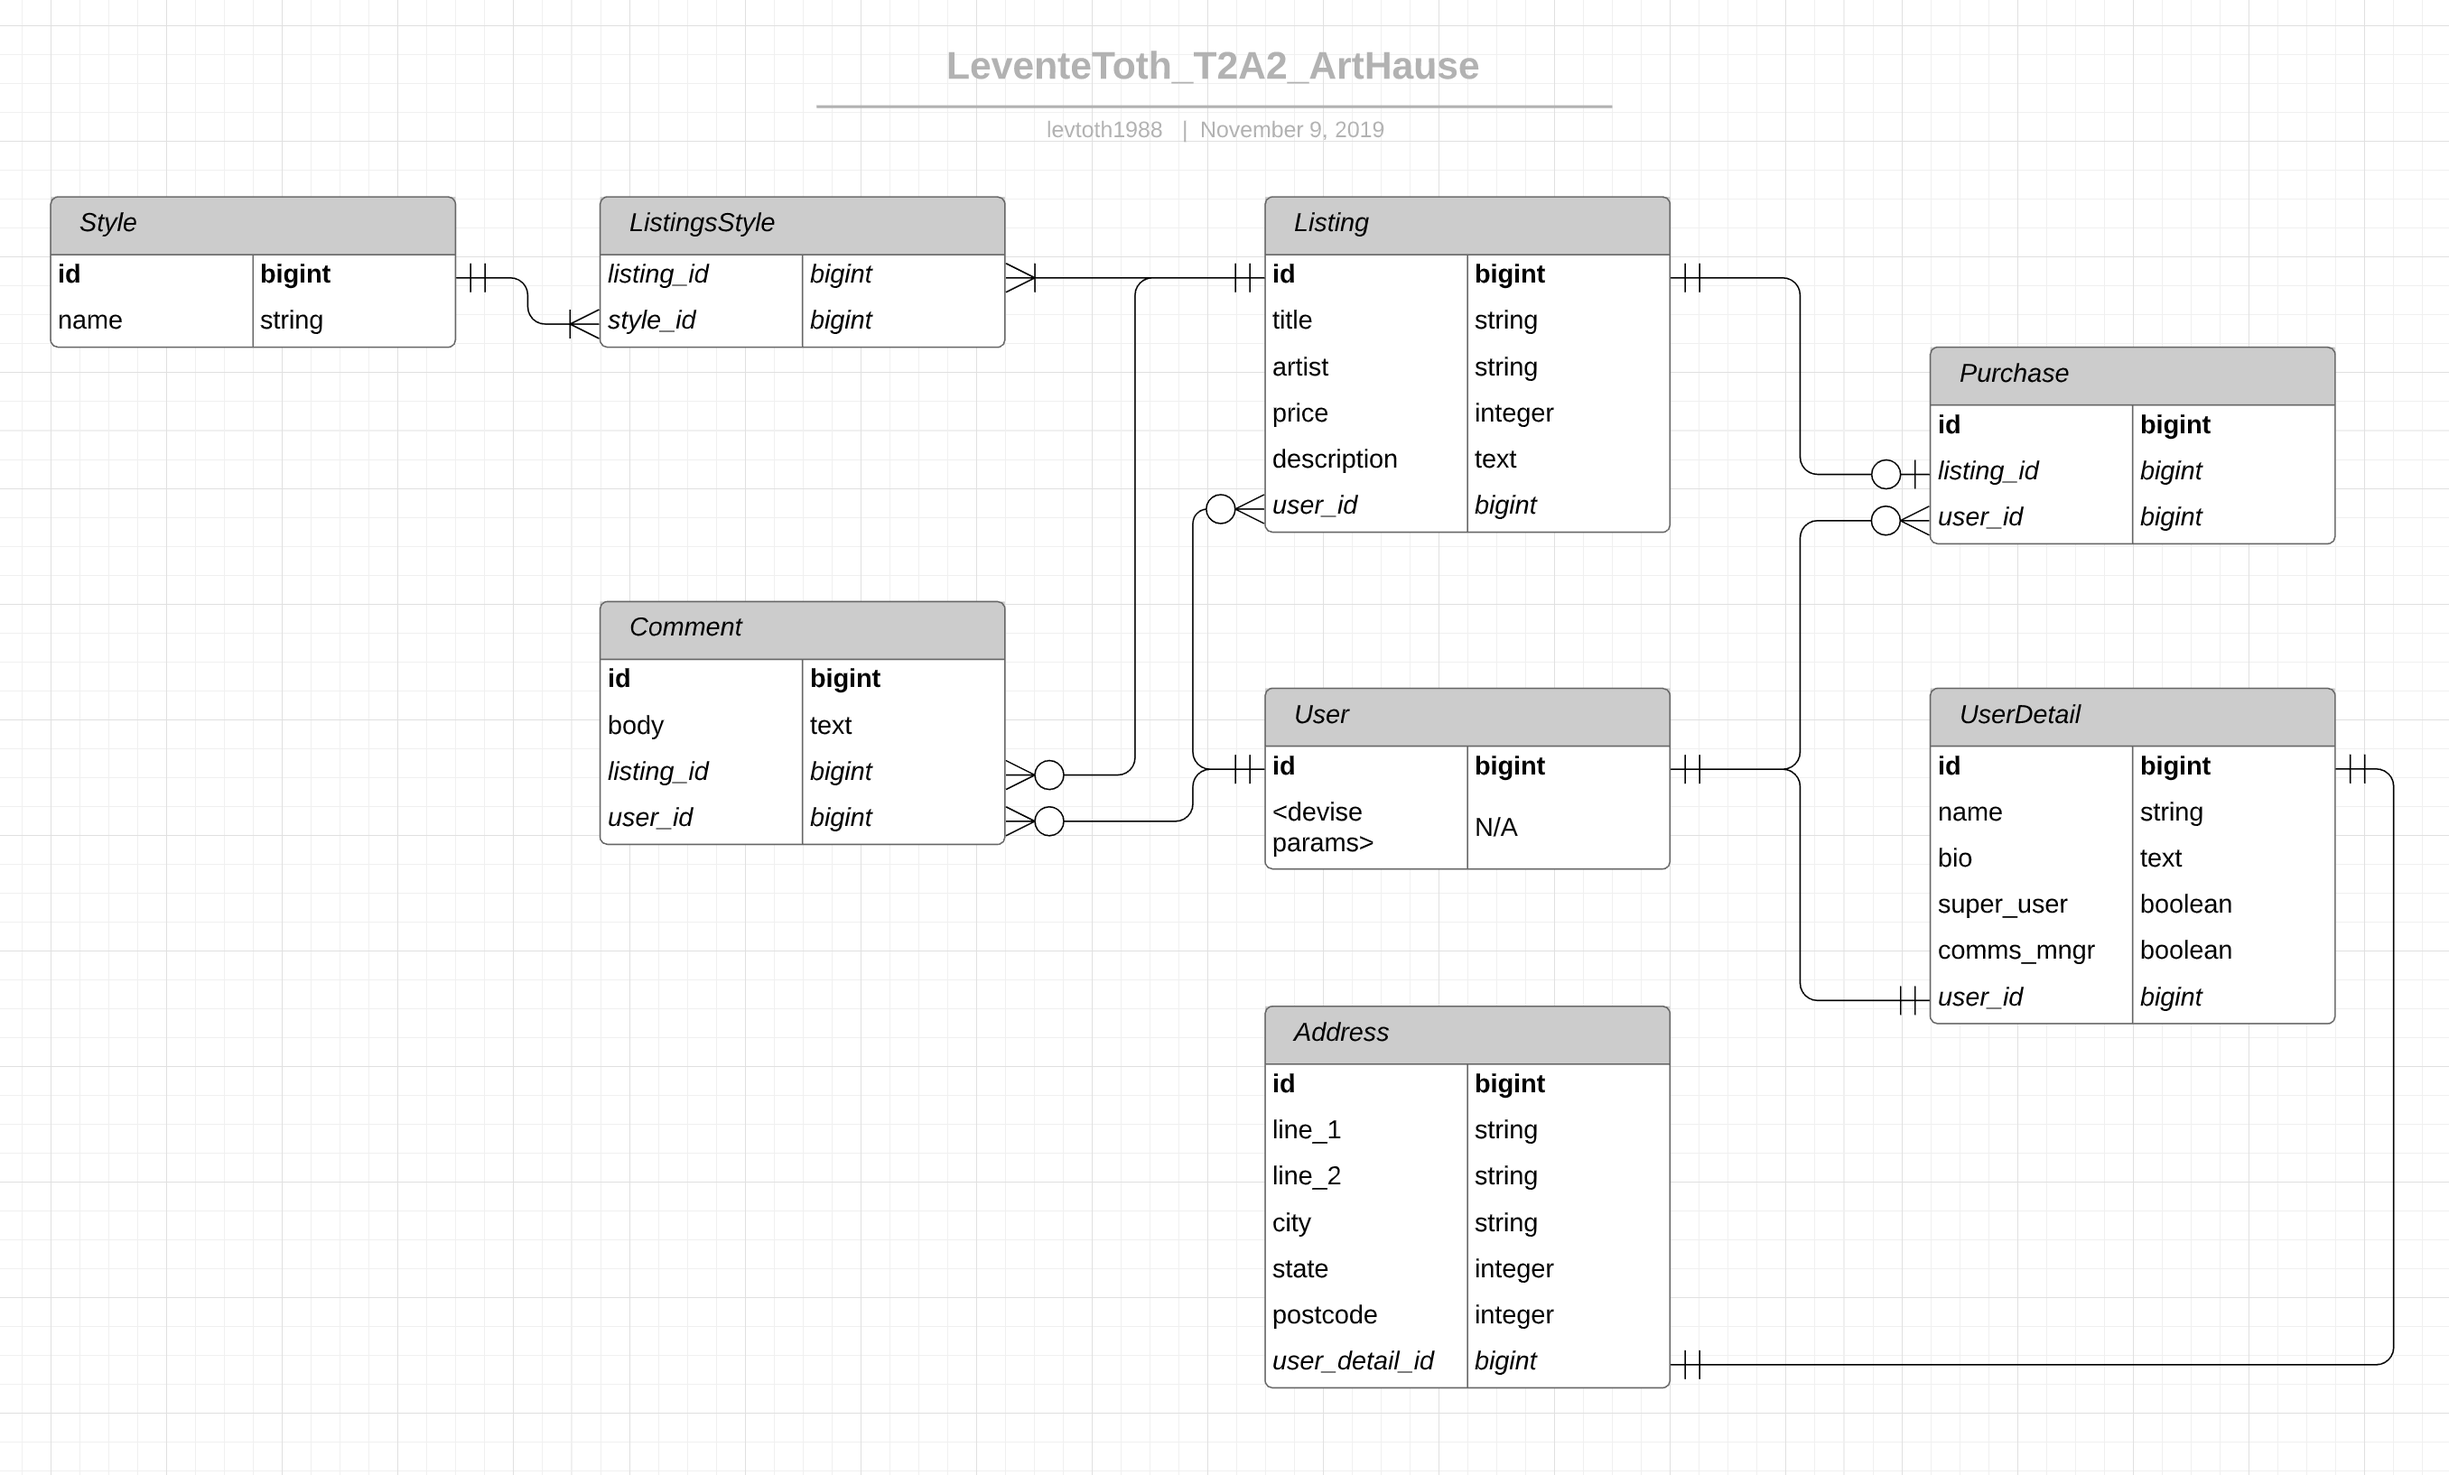
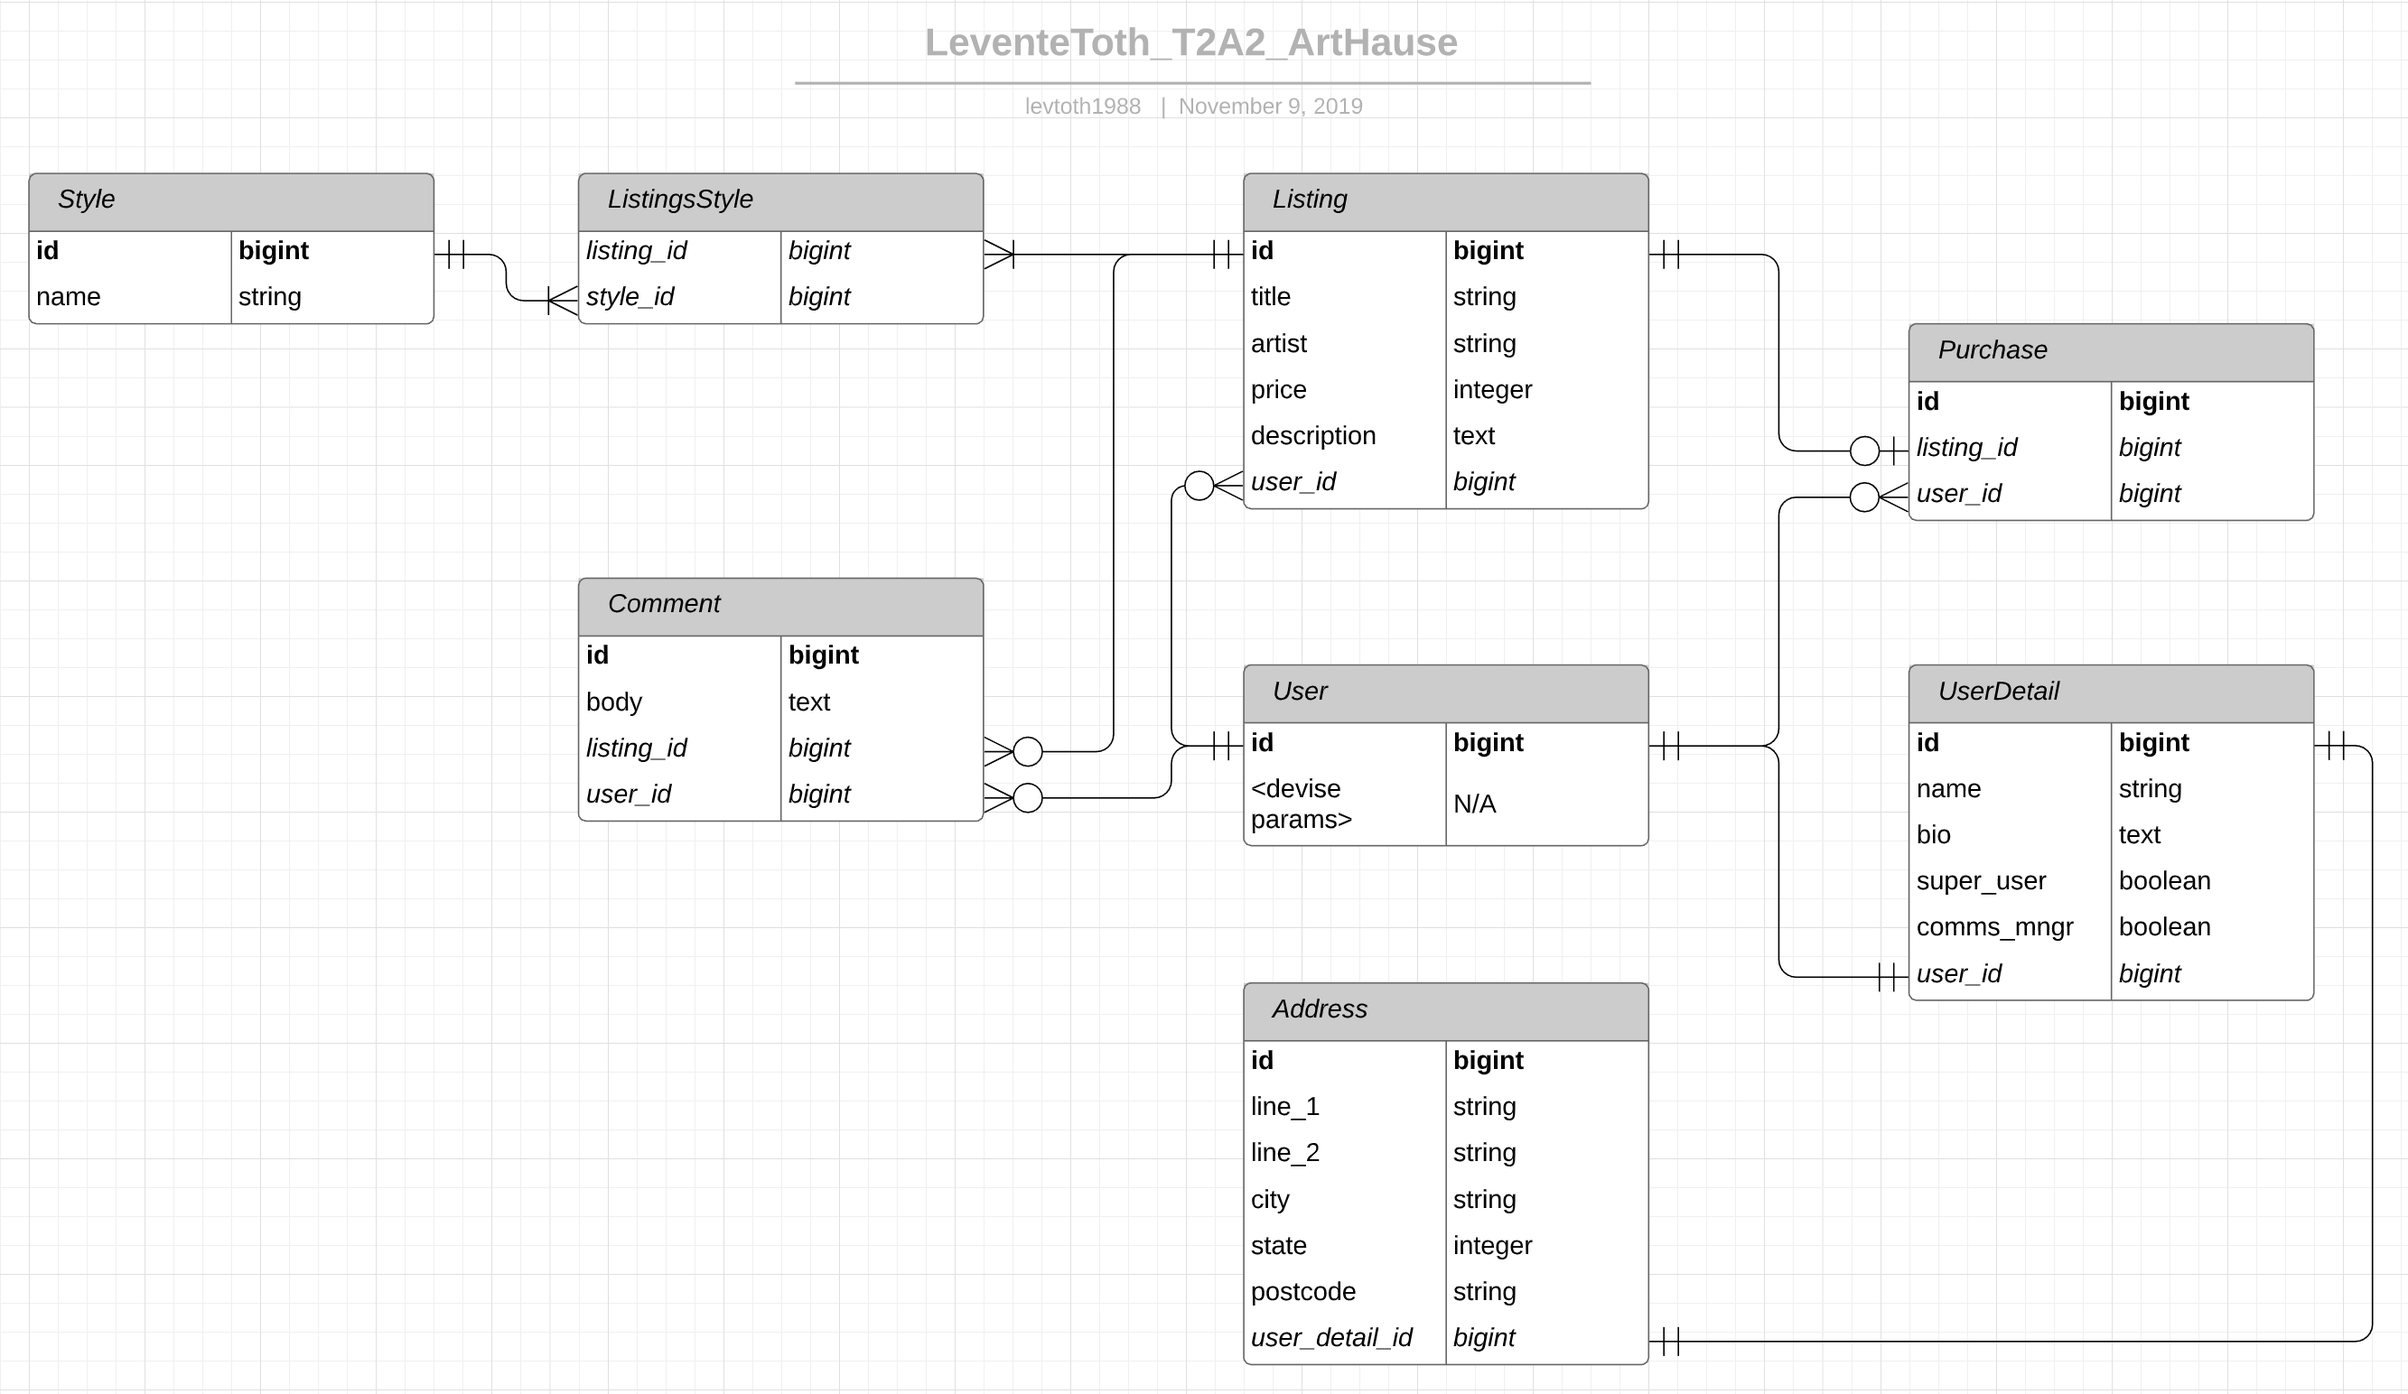
completed readme except for screenshots of website. will fill those in when styling is completed

diff --git a/README.md b/README.md
@@ -1,8 +1,25 @@
-<TODO contents page>
-
-
-
 # Levente Toth - T2A2 - Art Haus
+
+## Contents
+
+- [App Description](#app-description)
+  - [Functionality and Features](#functionality-and-features)
+  - [Future Developments](#future-developments)
+  - [Sitemap](#sitemap)
+  - [Example Screenshots](#example-screenshots)
+- [User Stories](#user-stories)
+- [Wireframes](#wireframes)
+- [ERD, Schema, Models and Database Relations](#erd-schema-models-and-database-relations)
+  - [Entity Relationship Diagram (ERD)](#entity-relationship-diagram-erd)
+  - [Schema](#schema)
+  - [Models and Database Relations](#models-and-database-relations)
+    - [Model and Relationship Design](#model-and-relationship-design)
+    - [Schema Design](#schema-design)
+- [High Level Components](#high-level-components)
+- [Third Party Services](#third-party-services)
+- [Task and Project Management](#task-and-project-management)
+
+## App Description
 
 Artists are often limited by the decisions of art dealers, and galleries. Due to the constraints of finite space and time, as well as the desire for profit, dealers and galleries limit artist exposure, reach and profits.
 
@@ -10,13 +27,11 @@ Making it harder for artists to create and display their work through the above 
 
 The 2-way marketplace web application *Art Haus* has been created as a tool to help, by removing the middle man (art galleries or exclusive dealers) and connecting artists and art collectors directly to other collectors and admirers of art.
 
-The target audience is artists and those who appreciate art.
+The target audience is Australian artists and Australians who appreciate art.
 
 View the live website for Art Haus [here](https://enigmatic-mountain-10943.herokuapp.com/).
 
 View the source code and version control repository [here](https://github.com/LevPewPew/art-market).
-
-## App Description
 
 The following tech stack and plug-ins/services were used to achieve what is outlined below:
 
@@ -59,6 +74,8 @@ Some functionality and features for the future I would have liked to include but
   - Better and more comprehensive Functional Tests. I ran into difficulties creating objects using Factory Bot in Capybara to create dummy data when creating Objects that use related models. So instead I had to create them "live" by having the test scripts go through User and Listing instantiation by filling in forms on the website, this adds a lot of overhead to the tests in code as well as time to execute.
   - Change Purchases entities to be a duplicate of a Listing entity, rather than a join table to link Users that purchased to Listing they purchased. This is to allow a Users purchase history to not be have missing entires when the Seller of a Listing they purchased has their account deleted which deletes the related Listings. Originally I did this as join table as I thought I shouldn't create more data than I need to, not considering this limitation that would result from it.
   - On slower connections, it can take a while to render a Listing index due to all the images not being scaled down to a smaller file size appropriate to the displayed dimensions of the images. In the future I would account for this by following [this guide](https://aws.amazon.com/blogs/compute/resize-images-on-the-fly-with-amazon-s3-aws-lambda-and-amazon-api-gateway/).
+  - Notifications, both in app and via email using a service such as Mailgun
+  - Support for non-Australian users.
 
 ### Sitemap
 
@@ -148,38 +165,52 @@ Due to many models referencing others, and SQL/Postgress enforcing relational in
 
 All Primary Keys and Foreign Keys have the *bigint* data types. This is because an integer would not have enough bits to represent larger numbers, larger numbers are necessary for Primary Keys as each new table record that is created must be unique and never repeats, even when a smaller Primary Key doesn't exist due to an earlier record's destruction.
 
+Most other parameters for things like names, titles, address lines etc have been set to be string datatype. Exceptions being the description, body and bio of the Listing, Comment and UserDetail models respectively. This is because these parameters can and often have a lot written in them and as such need the extra memory space provided by the text data type over the string data type.
 
+The Listing price parameter is an integer obviously as price is a number, so any sort of calculations such as a applying a discount code or tracking total spent/earned will be easier when using an integer data type.
 
+The Address postcode parameter is not an integer but instead a string as it is hard to deal with the possibility of leading zeros with a integer.
 
+The Address state parameter is an integer as this has been defined by an enum. An enum was chosen since the states of a country typically don't change often enough to be defined by a model in any way. Enums allow a database to have the speed an efficiency of an integer but with the flexibility of a string.
+
+In the UserDetail model, super_user and comms_mngr parameters are stored as booleans, because they either are have this role, or they don't. In hindsight I would have made this an enum also so I don't have to add more parameters any time a new role is created, and to avoid having parameters that are almost always nil.
 
 ## High Level Components
 
-TODO
+*Active Record:* In Ruby on Rails, Active Record is the abstraction used to define the Model as part of the MVC software design pattern. Active Record facilitates creating, selecting, updating and destroying Object records in a database table. It is an Object Relational Mapping system ORMs allow a developer to create SQL queries in the style of an object oriented language.
 
-* Explain the different high-level components (abstractions) in your App: is talk about active record and how SQL is abstracted to helpers. form helpers, active storage, devise, stripe, etc. mention active record is an ORM
+*Active Storage:* In Ruby on Rails, Active Store is an abstraction that allows a developer to implement file storage easily. Through Active Storage, the developer can have file attachments sent to a web app be automatically stored either in a local disk or in some sort of cloud storage service such as Amazon Web Services S3.
+
+*Form Helpers:* Ruby on Rails has form helpers that can be called by the form_with method in a view file. These helpers simplify the process of creating forms, as rather than creating them in plain HTML, many steps and parameters that are normally needed to be defined and linked to each other via classes, id's and routes etc are done for you, based on some assumptions of common practices and use cases.
+
+*Devise Package*: To implement a User Authentication and Authorization system, the Devise gem was used. This allowed the easy creation of sign in and sign up forms. As well as helpers to use as before_actions to ensure only authenticated users can access certain controller actions.
+
+## Third Party Services
+
+*Stripe:* Used as a payment processor. Using a webhook to deliver data from the Art Haus web app to the Stripe servers, the Stripe service will accept payments pointing to it and move funds from a Users credit/debit card to the Stripe account. It will also keeping track of all these transactions for future reference.
+
+*Amazon Web Services (AWS) S3:* AWS S3 is a cloud storage service. It allows the Art Haus web app to safely store files uploaded by users as attachments when making a listing. Without this cloud storage service, the web app would have to store uploaded files locally on it's server and this would be in danger of losing all these files.
+
+*Google Maps API:* To represent the location of a Listing via a GPS map, the Google Maps API has been used to drop a marker on the location for a potential buyer to easily view to get a quick idea of how close or far a Listing is from them.
+
+*Google reCAPTCHA API:* To prevent spam and automated Listings being generated a reCAPTCHA has been placed in the New Listing view. This reCAPTCHA is like a quick test that is easy for a human to pass, but difficult for a bot, reCAPTCHA will be able to determine if the User is a human or a bot and block any bots from creating a new Listing.
 
 ## Task and Project Management
 
-TODO trello and a brief discussion overview about how i used it and managed my time and my process e.g. erd and wireframes then side leave validtions last, and CSS at very end pump out models first, etc.
+A Trello Boards was the primary tool used to plan tasks and track progress in my project.
 
+![Trello 1](./docs/T2A2-trello-1.png)
 
+![Trello 2](./docs/T2A2-trello-2.png)
 
+![Trello 3](./docs/T2A2-trello-3.png)
 
+The general process I followed for this project was as follows:
 
-
-<TODO all this stuff once app is complete>
-
-## R15	Explain the different high-level components (abstractions) in your app
-* R16	Detail any third party services that your app will use
-* R17	Describe your projects models in terms of the relationships (active record associations) they have with each other
-* R18	Discuss the database relations to be implemented in your application
-* R19	Provide your database schema design, basically tack onto ERDs info about nullable and defaults, talk about the types etc. talk abouy why you used certain types. example why postfcode is string, to have leading zeros.
-* R20	Describe the way tasks are allocated and tracked in your project
-
-rubrick
-* Describe the way tasks are planned and tracked in your project (Shows significant planning for how tasks are planned and tracked, including a full description of the process and of the tools used)
-* Explain the different high-level components (abstractions) in your App: is talk about active record and how SQL is abstracted to helpers. form helpers, active storage, devise, stripe, etc. mention active record is an ORM
-* sanitziation is allowing permitted paramaters, form validation, and formatting values a user may enter for the database to use.
-  - Sanitizing will remove any illegal character from the data.
-  - Validating will determine if the data is in proper form.
-* user stories follow this structure: as a <something> i can do <something> to achieve <something> https://www.atlassian.com/agile/project-management/user-stories
+1. Create a Trello board with high level tasks to create an MVP and cover all assignment requirements.
+2. Create Wireframes to use as a guide to follow when creating my Views and Styling the website. 
+3. Create an ERD to use as a guide to follow when coding my models and schema.
+4. Generate models in rails including all references.
+5. Create a Seed file that to fill the database with dummy data for testing.
+6. Create Views and link them to the models with Controllers.
+7. Leave validations until last to avoid spending lots of time troubleshooting.
